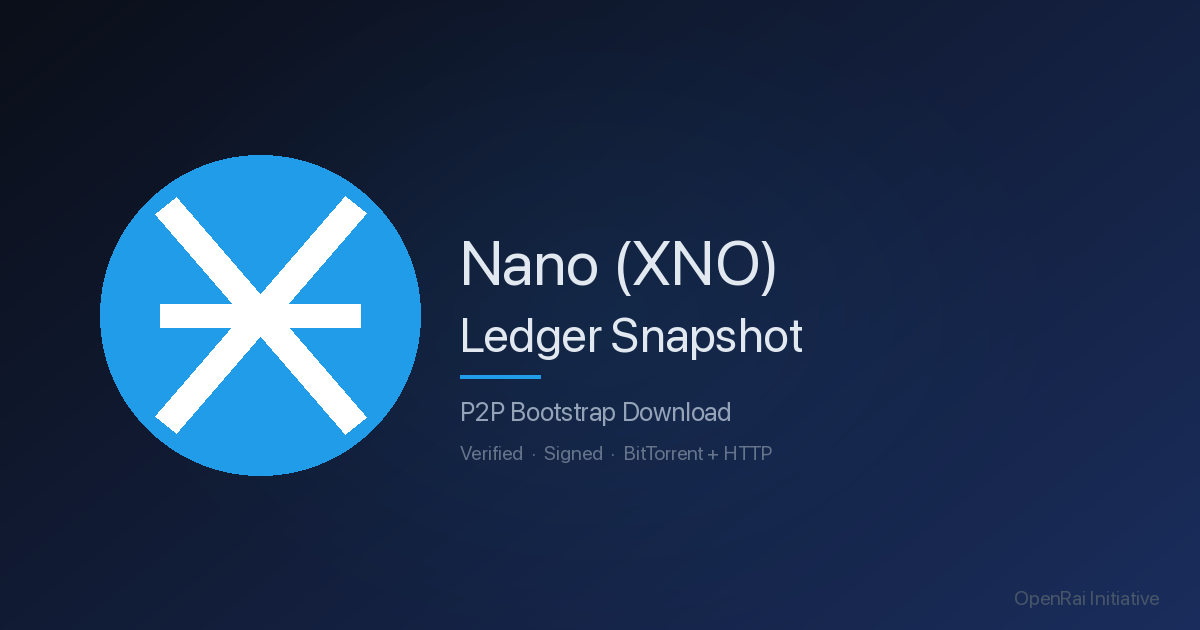
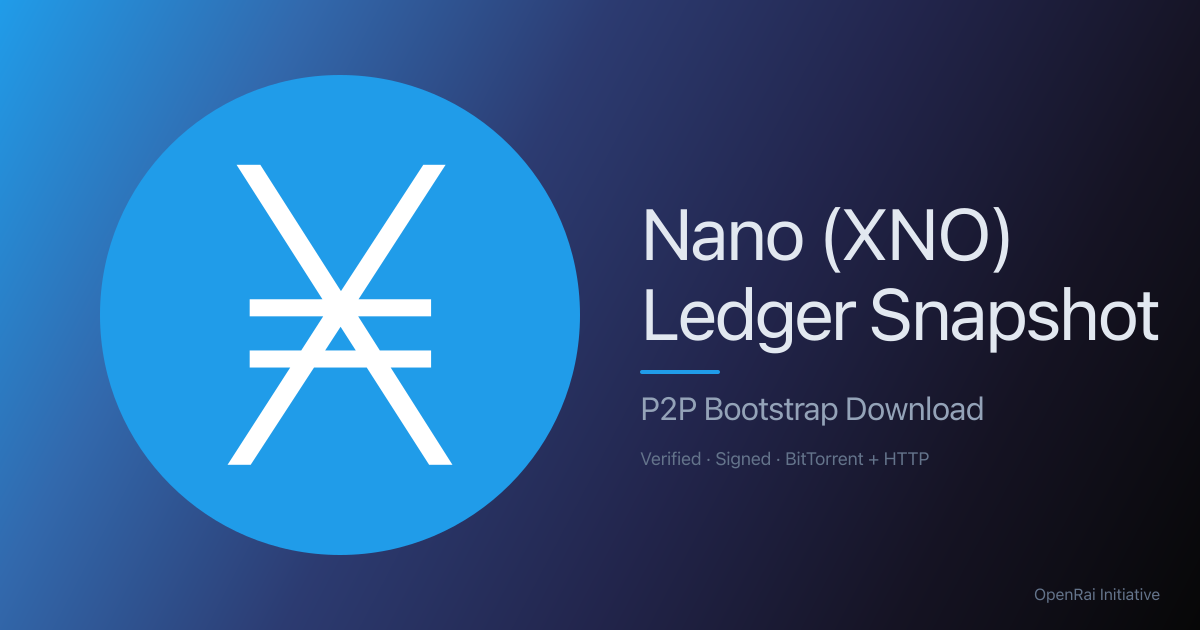
dashboard: regenerate og-image from SVG source, add twitter:image:src alt domain meta

diff --git a/status-api/app/templates/index.html b/status-api/app/templates/index.html
@@ -21,6 +21,9 @@
     <meta name="twitter:title" content="Nano (XNO) Ledger Snapshot — P2P Bootstrap Download">
     <meta name="twitter:description" content="Download the latest Nano ledger snapshot via BitTorrent P2P or direct HTTP. Verified, signed, ~60 GB.">
     <meta name="twitter:image" content="https://nano-snapshot.ninzin.net/static/og-image.png">
+    <meta name="twitter:image:src" content="https://nano-snapshot.ninzin.net/static/og-image.png">
+    <meta name="twitter:image:alt" content="Nano Ledger Snapshot — P2P Bootstrap Download">
+    <meta name="twitter:domain" content="nano-snapshot.ninzin.net">
     <script src="https://unpkg.com/htmx.org@2.0.4"></script>
     <style>
         :root { --bg: #0b0f19; --fg: #e2e8f0; --accent: #209ce9; --accent-soft: rgba(32, 156, 233, 0.14); --muted: #94a3b8; --card: rgba(21, 28, 44, 0.88); --border: rgba(148, 163, 184, 0.2); }
